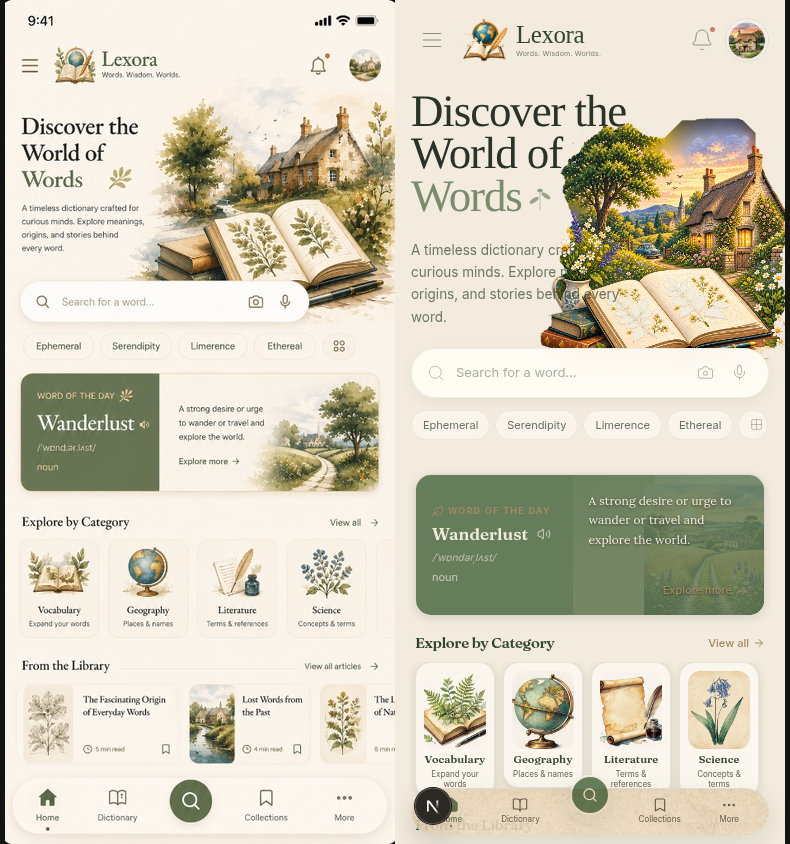
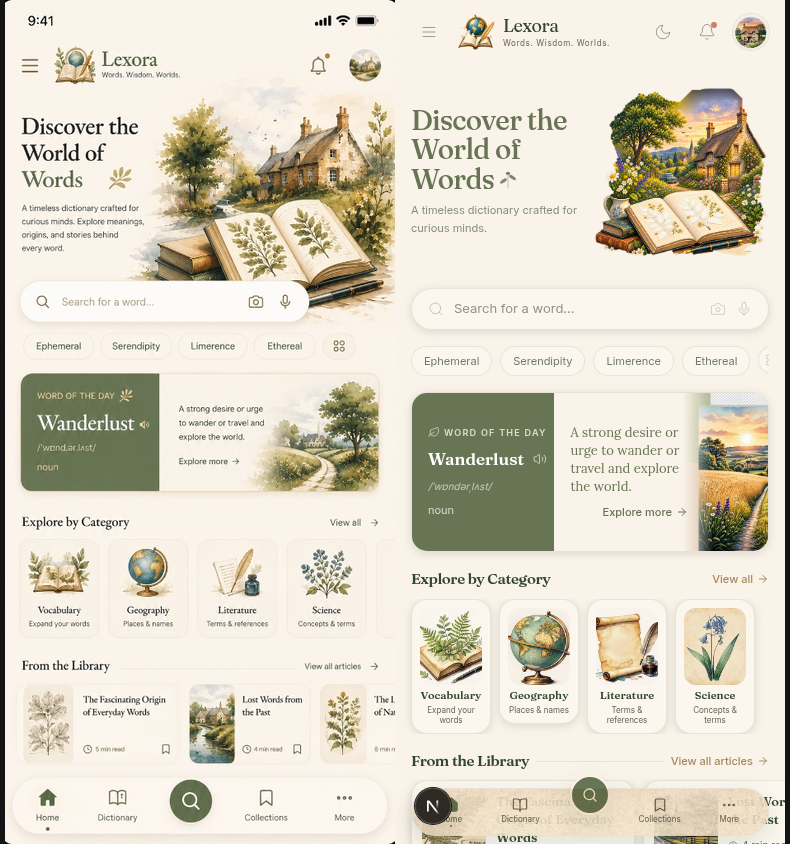
897aa4de-b16a-4232-9e44-fa017e030974

diff --git a/src/components/lexora/word-of-the-day-card.tsx b/src/components/lexora/word-of-the-day-card.tsx
@@ -9,17 +9,13 @@ import type { WordEntry } from "@/lib/lexora-data";
 /**
  * WordOfTheDayCard — Pure Tailwind. No CSS file. No !important.
  *
- * STRICT 2-COLUMN SPLIT:
- *   LEFT (40%):  solid bg-[#677554], white/cream text (word info)
- *   RIGHT (60%): solid bg-[#FAF3E9], text-[#677554] (full definition + Explore more)
+ * STRICT 2-COLUMN SPLIT (40/60):
+ *   LEFT:  solid bg-[#677554], white/cream text. "WORD OF THE DAY" on ONE line.
+ *   RIGHT: solid bg-[#FAF3E9], text-[#677554]. Wider text area (w-[70%]).
  *
- * Right panel:
- *   - Card container: overflow-hidden rounded-2xl
- *   - Image container: absolute top-0 right-0 h-full w-[45%] z-0
- *   - Image: h-full w-full object-cover object-right (fills full height, no checkered bg)
- *   - Image mask: linear-gradient(to right, transparent 0%, black 35%) — left edge only
- *   - Text container: relative z-10 w-[60%] flex flex-col justify-center h-full p-6
- *   - Definition: NO line-clamp, full text renders
+ * Card height capped at h-[160px]. Compact py-3.5 px-4 padding.
+ * Image fills the top-right corner completely (object-cover object-top),
+ * inside absolute right-0 top-0 h-full w-[40%] z-0 — no checkered gaps.
  */
 export function WordOfTheDayCard({
   word,
@@ -38,18 +34,19 @@ export function WordOfTheDayCard({
         openWord(word);
       }}
       className={cn(
-        "grid h-[180px] cursor-pointer overflow-hidden rounded-2xl border border-border shadow-card grid-cols-[40%_60%] transition-transform active:scale-[0.99]",
+        "grid h-[160px] cursor-pointer overflow-hidden rounded-2xl border border-border shadow-card grid-cols-[40%_60%] transition-transform active:scale-[0.99]",
         className
       )}
     >
       {/* ============================================================
           LEFT PANEL (40%) — solid #677554, white/cream text.
-          Tight padding (py-4 px-5), gap-2 for compact stacking.
+          "WORD OF THE DAY" uses whitespace-nowrap to stay on ONE line.
           ============================================================ */}
-      <div className="flex flex-col justify-center gap-2 bg-[#677554] px-5 py-4">
+      <div className="flex flex-col justify-center gap-2 bg-[#677554] px-3 py-3.5">
         <div className="flex items-center gap-1 text-[#FBF4EA]/80">
-          <Leaf className="h-3 w-3 shrink-0" strokeWidth={1.5} />
-          <span className="font-body text-[9px] font-semibold uppercase tracking-[0.14em]">
+          <Leaf className="h-2.5 w-2.5 shrink-0" strokeWidth={1.5} />
+          {/* whitespace-nowrap + tighter tracking: prevents "WORD OF THE DAY" from breaking */}
+          <span className="whitespace-nowrap font-body text-[8.5px] font-semibold uppercase tracking-[0.08em]">
             Word of the Day
           </span>
         </div>
@@ -78,19 +75,19 @@ export function WordOfTheDayCard({
 
       {/* ============================================================
           RIGHT PANEL (60%) — relative overflow-hidden bg-[#FAF3E9].
-          Image fills the compact h-full height (object-cover object-right).
-          Text container z-10 on left 60%, tight padding py-4 px-5, gap-2.
+          Image fills top-right corner completely (no checkered gaps).
+          Text container widened to w-[70%] for comfortable 3-line wrap.
           ============================================================ */}
       <div className="relative overflow-hidden bg-[#FAF3E9]">
-        {/* Image container — absolute top-0 right-0 h-full w-[45%] z-0.
-            object-cover object-right fills the compact height naturally,
-            cropping into landscape orientation with no transparent gaps. */}
-        <div className="absolute right-0 top-0 z-0 h-full w-[45%] overflow-hidden">
+        {/* Image container — absolute right-0 top-0 h-full w-[40%] z-0.
+            object-cover object-top fills EVERY pixel of the top-right
+            corner. No transparent checkered gaps. */}
+        <div className="absolute right-0 top-0 z-0 h-full w-[40%] overflow-hidden">
           <img
             src="/illustrations/wotd-bg-light.png"
             alt=""
             aria-hidden
-            className="h-full w-full object-cover object-right dark:hidden"
+            className="h-full w-full object-cover object-top dark:hidden"
             style={{
               // Soft mask fade on LEFT edge only — blends into #FAF3E9.
               WebkitMaskImage:
@@ -103,7 +100,7 @@ export function WordOfTheDayCard({
             src="/illustrations/wotd-bg-dark.png"
             alt=""
             aria-hidden
-            className="hidden h-full w-full object-cover object-right dark:block"
+            className="hidden h-full w-full object-cover object-top dark:block"
             style={{
               WebkitMaskImage:
                 "linear-gradient(to right, transparent 0%, black 35%)",
@@ -113,12 +110,11 @@ export function WordOfTheDayCard({
           />
         </div>
 
-        {/* Text container — relative z-10 w-[60%] flex flex-col justify-center h-full.
-            Tight padding (py-4 px-5), gap-2 so content fits the sleeker 180px card. */}
-        <div className="relative z-10 flex h-full w-[60%] flex-col justify-center gap-2 px-5 py-4">
-          {/* NO line-clamp — full definition renders without truncation.
-              Compact leading so it sits on 2-3 wider lines, not 6. */}
-          <p className="font-long text-[12px] leading-snug text-[#677554]">
+        {/* Text container — relative z-10 w-[70%] flex flex-col justify-center h-full.
+            Widened from 60% to 70% so definition sits on 3 wider lines. */}
+        <div className="relative z-10 flex h-full w-[70%] flex-col justify-center gap-2 px-4 py-3.5">
+          {/* NO line-clamp — full definition renders. text-sm for wider lines. */}
+          <p className="font-long text-[13px] leading-snug text-[#677554]">
             {word.definitions[0]}
           </p>
           <span className="inline-flex items-center gap-1 self-end font-body text-[11px] font-medium text-[#677554]">
